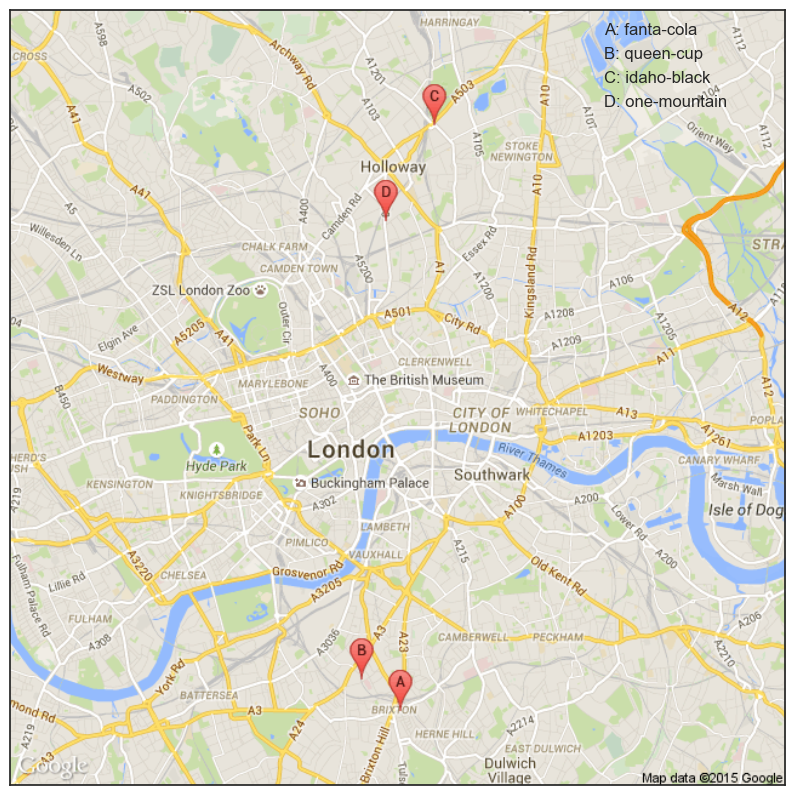
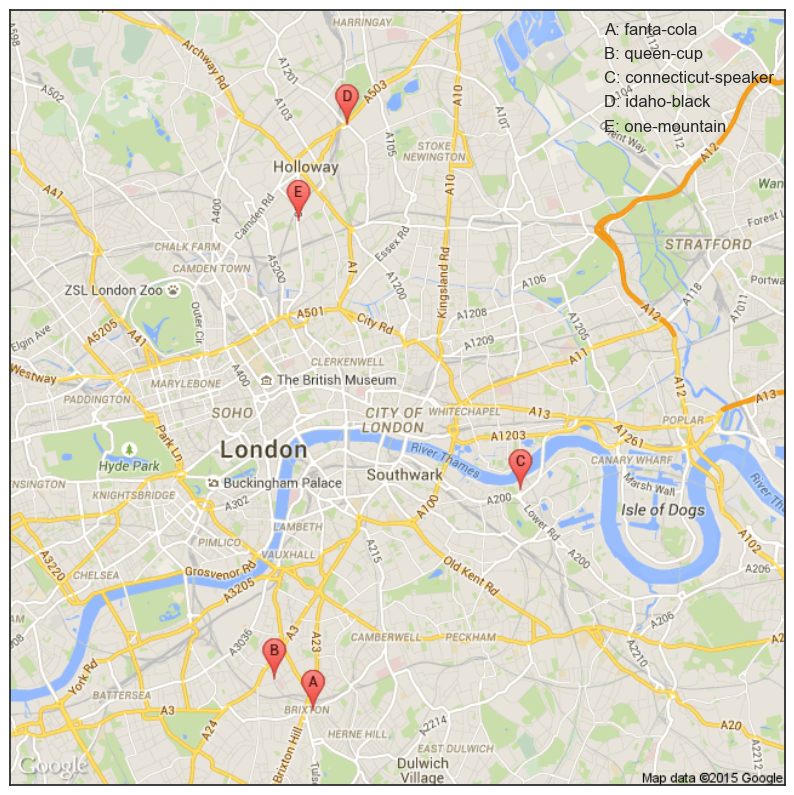
Updated at 2015-08-17 12:27:56.273257

diff --git a/index.html b/index.html
@@ -7,8 +7,8 @@
     <div class="top-pane listing">
       <div id="summary">
         <ul>
-          <li>Last scrape was at 12:00 on Monday.</li>
-          <li>20 listings have been found, of which 14 are still available and 4 are of interest.</li>
+          <li>Last scrape was at 12:27 on Monday.</li>
+          <li>20 listings have been found, of which 14 are still available and 5 are of interest.</li>
           <li>Listing 2-bed properties below &pound1550pcm. Each is within 0.5 miles of a station that is less than 20 minutes from both Euston and Green Park.</li>
         </ul>
       </div>
@@ -87,6 +87,56 @@
         <img src="photos/37814668_7.jpg">
       
         <img src="photos/37814668_8.jpg">
+      
+      </div>
+    </div>
+    
+    <div class="listing  ">
+      <div class="value-displays" style="background-color:rgb(229, 31, 29);color:rgb(230, 230, 230)">
+        Price<br>&pound1477pcm
+      </div>
+      <div class="value-display-sep">
+      </div>
+      <div class="value-displays" style="background-color:rgb(8, 64, 129);color:rgb(230, 230, 230)">
+        Euston<br>27 mins
+      </div>
+      <div class="value-displays" style="background-color:rgb(193, 230, 192);color:rgb(50, 50, 50)">
+        Green Park<br>17 mins
+      </div>
+      <ul id="details">
+        <li><em>connecticut-speaker</em> near Bermondsey</li>
+        <li>"Available from 23rd Sep 2015"</li>
+        <li>Last updated: 2015-08-15 07:13:55</li>
+        <li>Reeds Rains, <a href="http://www.zoopla.co.uk/to-rent/details/34185382?utm_source=v1:obWdDj_MDAXd-gCkcawgry-mNhcrjq-F&utm_medium=api">details</a>
+        
+      </ul>
+      <div id="photos">
+      
+        <img src="photos/34185382_0.jpg">
+      
+        <img src="photos/34185382_1.jpg">
+      
+        <img src="photos/34185382_2.jpg">
+      
+        <img src="photos/34185382_3.jpg">
+      
+        <img src="photos/34185382_4.jpg">
+      
+        <img src="photos/34185382_5.jpg">
+      
+        <img src="photos/34185382_6.jpg">
+      
+        <img src="photos/34185382_7.jpg">
+      
+        <img src="photos/34185382_8.jpg">
+      
+        <img src="photos/34185382_9.jpg">
+      
+        <img src="photos/34185382_10.jpg">
+      
+        <img src="photos/34185382_11.jpg">
+      
+        <img src="photos/34185382_12.jpg">
       
       </div>
     </div>
@@ -265,56 +315,6 @@
         <img src="photos/37796317_6.jpg">
       
         <img src="photos/37796317_7.jpg">
-      
-      </div>
-    </div>
-    
-    <div class="listing  ignored">
-      <div class="value-displays" style="background-color:rgb(229, 31, 29);color:rgb(230, 230, 230)">
-        Price<br>&pound1477pcm
-      </div>
-      <div class="value-display-sep">
-      </div>
-      <div class="value-displays" style="background-color:rgb(8, 64, 129);color:rgb(230, 230, 230)">
-        Euston<br>27 mins
-      </div>
-      <div class="value-displays" style="background-color:rgb(193, 230, 192);color:rgb(50, 50, 50)">
-        Green Park<br>17 mins
-      </div>
-      <ul id="details">
-        <li><em>connecticut-speaker</em> near Bermondsey</li>
-        <li>"Available from 23rd Sep 2015"</li>
-        <li>Last updated: 2015-08-15 07:13:55</li>
-        <li>Reeds Rains, <a href="http://www.zoopla.co.uk/to-rent/details/34185382?utm_source=v1:obWdDj_MDAXd-gCkcawgry-mNhcrjq-F&utm_medium=api">details</a>
-        <li>Ignored because "no shower"</li>
-      </ul>
-      <div id="photos">
-      
-        <img src="photos/34185382_0.jpg">
-      
-        <img src="photos/34185382_1.jpg">
-      
-        <img src="photos/34185382_2.jpg">
-      
-        <img src="photos/34185382_3.jpg">
-      
-        <img src="photos/34185382_4.jpg">
-      
-        <img src="photos/34185382_5.jpg">
-      
-        <img src="photos/34185382_6.jpg">
-      
-        <img src="photos/34185382_7.jpg">
-      
-        <img src="photos/34185382_8.jpg">
-      
-        <img src="photos/34185382_9.jpg">
-      
-        <img src="photos/34185382_10.jpg">
-      
-        <img src="photos/34185382_11.jpg">
-      
-        <img src="photos/34185382_12.jpg">
       
       </div>
     </div>
